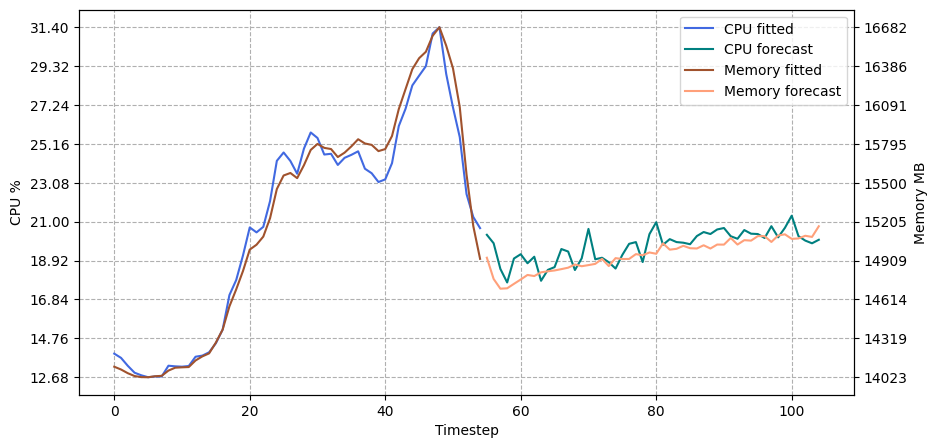
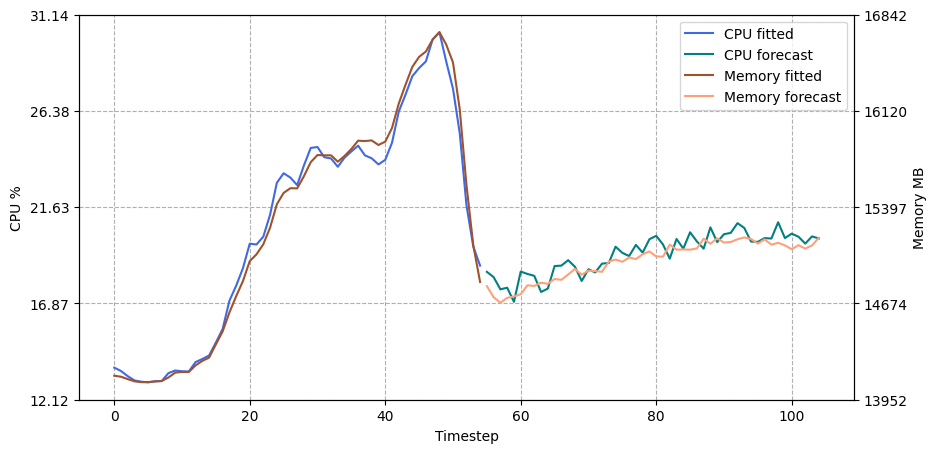
Fixed a small graphical issue. Clarify the data getting read before inference. Accustom changes in the monitor in readme.

diff --git a/architecture/train.py b/architecture/train.py
@@ -10,7 +10,10 @@ from architecture.model import RegressionModel
 class Trainer:
     def __init__(self, config_path: str):
         self.config = self._load(config_path)
-        self.reader = DataReader(self.config["data"]["csv_path"], self.config["data"]["window_size"])
+        csv_path = self.config["data"]["csv_path"]
+        print(f"Reading: {csv_path}")
+
+        self.reader = DataReader(csv_path, self.config["data"]["window_size"])
         self.device = torch.device("cuda" if torch.cuda.is_available() else "cpu")
         self.model = RegressionModel(input_size=2).to(self.device)
 

diff --git a/README.md b/README.md
@@ -17,7 +17,7 @@ A Windows resource monitoring and prediction tool. Collects real-time CPU and me
 1. Run the pipeline:
     -   ```bash
         cd pipeline
-        run.bat
+        monitor.bat
         ```
     - This will create <code>data/data.csv</code> containing CPU (%) and memory (MB) usage.
     - Check out the [Arguments](#arguments)